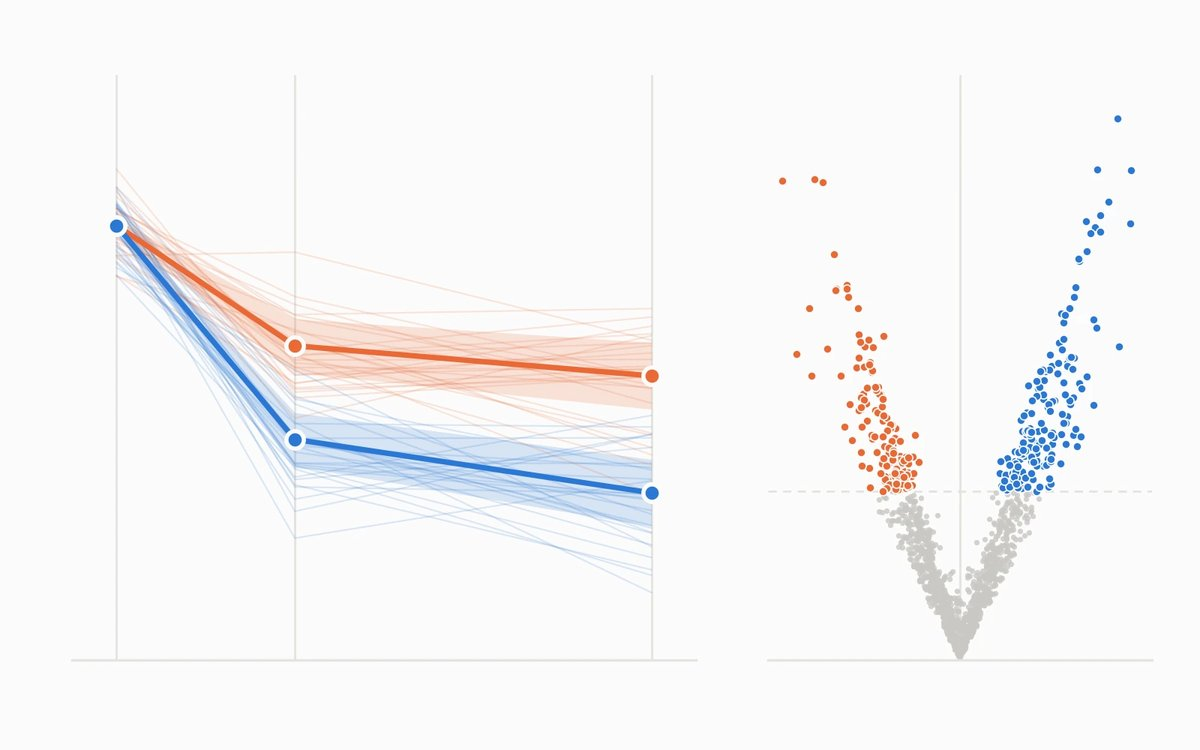
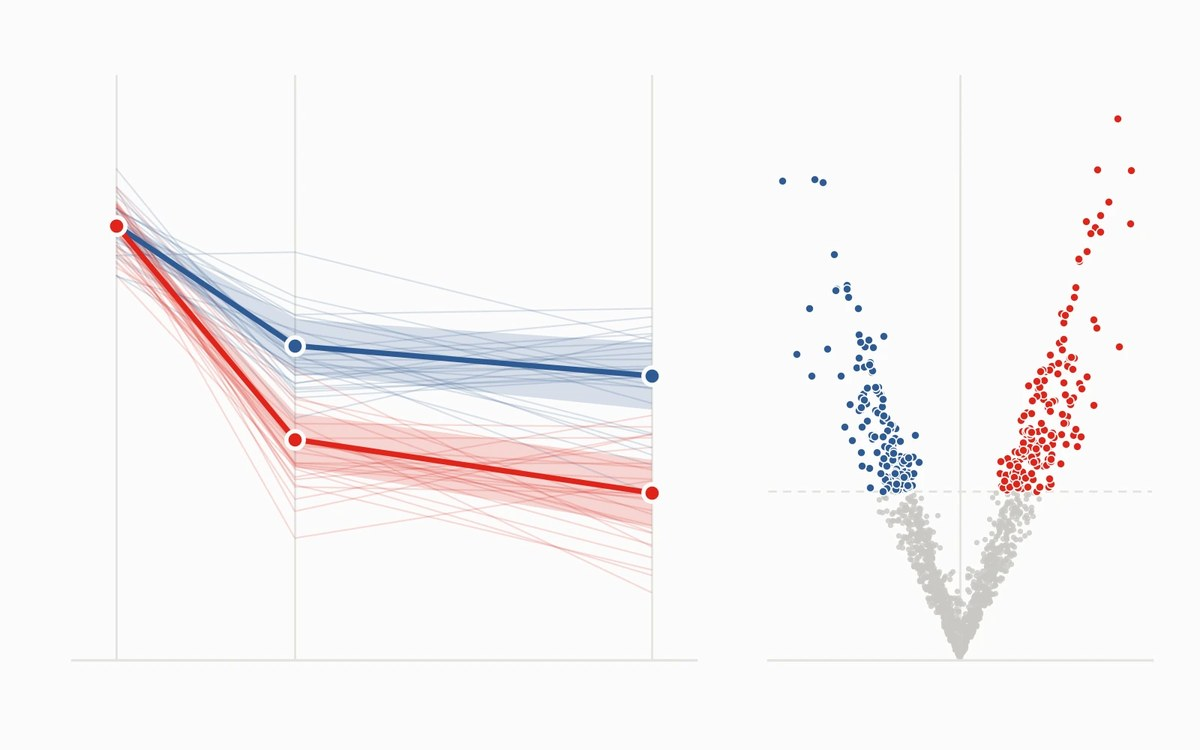
Draw the Lilly illustration in Lilly red and blue (#59)
* Draw the Lilly illustration in Lilly red and blue

Sample the colors from the EASD 2026 deck: the logo red (#e0241a) and a
blue one step lighter than the deck navy (#2e5a94), since the navy itself
fails the dataviz lightness-band check against the red. Re-render the
16:10 project card, the 5:2 homepage image, and the link-preview JPG.

Claude-Session: https://claude.ai/code/session_01V2DWJijtVfnoR5cbf3pvKC

* Make red the larger-decrease arm and the increased side of the volcano

Claude-Session: https://claude.ai/code/session_01V2DWJijtVfnoR5cbf3pvKC

---------

diff --git a/scripts/render_project_art.py b/scripts/render_project_art.py
@@ -32,6 +32,11 @@ ORANGE = "#eb6834"  # categorical 2
 YELLOW = "#eda100"  # categorical 4
 YELLOW_DARK = "#c98500"
 NEUTRAL = "#c9c8c3"
+# Lilly brand colors for the Lilly card, sampled from the EASD 2026 deck. The red is the
+# logo red; the blue is one step lighter than the deck's navy (#0c376d) so it passes the
+# dataviz palette checks (lightness band, CVD separation) against the red.
+LILLY_RED = "#e0241a"
+LILLY_BLUE = "#2e5a94"
 NEUTRAL_DARK = "#a3a29d"
 
 plt.rcParams.update({"svg.fonttype": "none", "svg.hashsalt": "joshchiou", "figure.facecolor": SURFACE, "axes.facecolor": SURFACE})
@@ -75,7 +80,7 @@ def lilly(rng, rel="assets/img/projects/work/lilly-proteomics.webp", size=(8, 5)
 
     ax = fig.add_axes([0.06, 0.12, 0.52, 0.78])
     clean_axes(ax)
-    for color, drop in ((ORANGE, 0.9), (BLUE, 1.6)):
+    for color, drop in ((LILLY_BLUE, 0.9), (LILLY_RED, 1.6)):
         mean = np.array([0, -drop * 0.8, -drop])
         for _ in range(28):
             noise = rng.normal(0, 0.28, 3)
@@ -99,8 +104,8 @@ def lilly(rng, rel="assets/img/projects/work/lilly-proteomics.webp", size=(8, 5)
     sig = p > 3.2
     up, down = sig & (fc > 0), sig & (fc < 0)
     ax2.scatter(fc[~sig], p[~sig], s=7, color=NEUTRAL, lw=0, alpha=0.8)
-    ax2.scatter(fc[up], p[up], s=16, color=BLUE, edgecolor=SURFACE, linewidth=0.6, zorder=3)
-    ax2.scatter(fc[down], p[down], s=16, color=ORANGE, edgecolor=SURFACE, linewidth=0.6, zorder=3)
+    ax2.scatter(fc[up], p[up], s=16, color=LILLY_RED, edgecolor=SURFACE, linewidth=0.6, zorder=3)
+    ax2.scatter(fc[down], p[down], s=16, color=LILLY_BLUE, edgecolor=SURFACE, linewidth=0.6, zorder=3)
     ax2.axhline(3.2, color=GRID, lw=1, ls=(0, (4, 3)), zorder=0)
     ax2.axvline(0, color=GRID, lw=1, zorder=0)
     lim = np.abs(fc).max() * 1.08

diff --git a/docs/design.md b/docs/design.md
@@ -73,6 +73,9 @@ editing:
 - They use the dataviz skill's reference palette: surface `#fcfcfb`, blue `#2a78d6`, orange
   `#eb6834`, yellow `#eda100`, gray `#c9c8c3` for context marks. Assign hues in that order and
   validate any new palette with the skill's `validate_palette.js`.
+- The Lilly card (and its homepage version) uses Lilly colors instead: red `#e0241a` (the logo red)
+  and blue `#2e5a94`, one step lighter than the deck navy `#0c376d` so the pair passes the
+  validator.
 - Thin lines, small round markers with a 1-2px surface-colored outline, no gridlines beyond a few
   faint guides.
 
